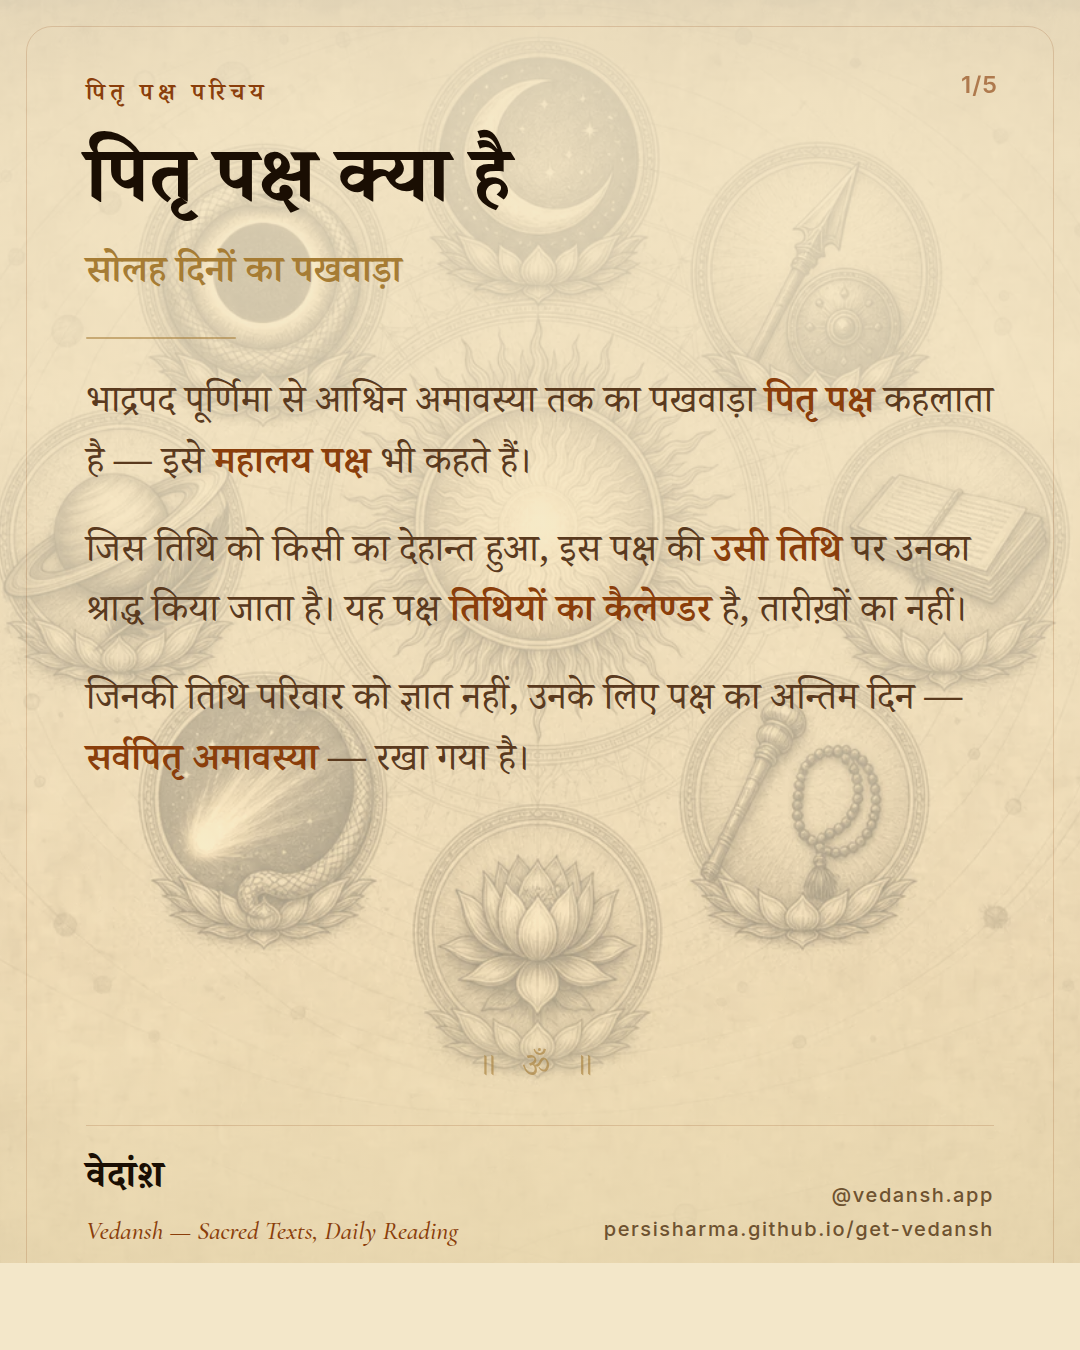
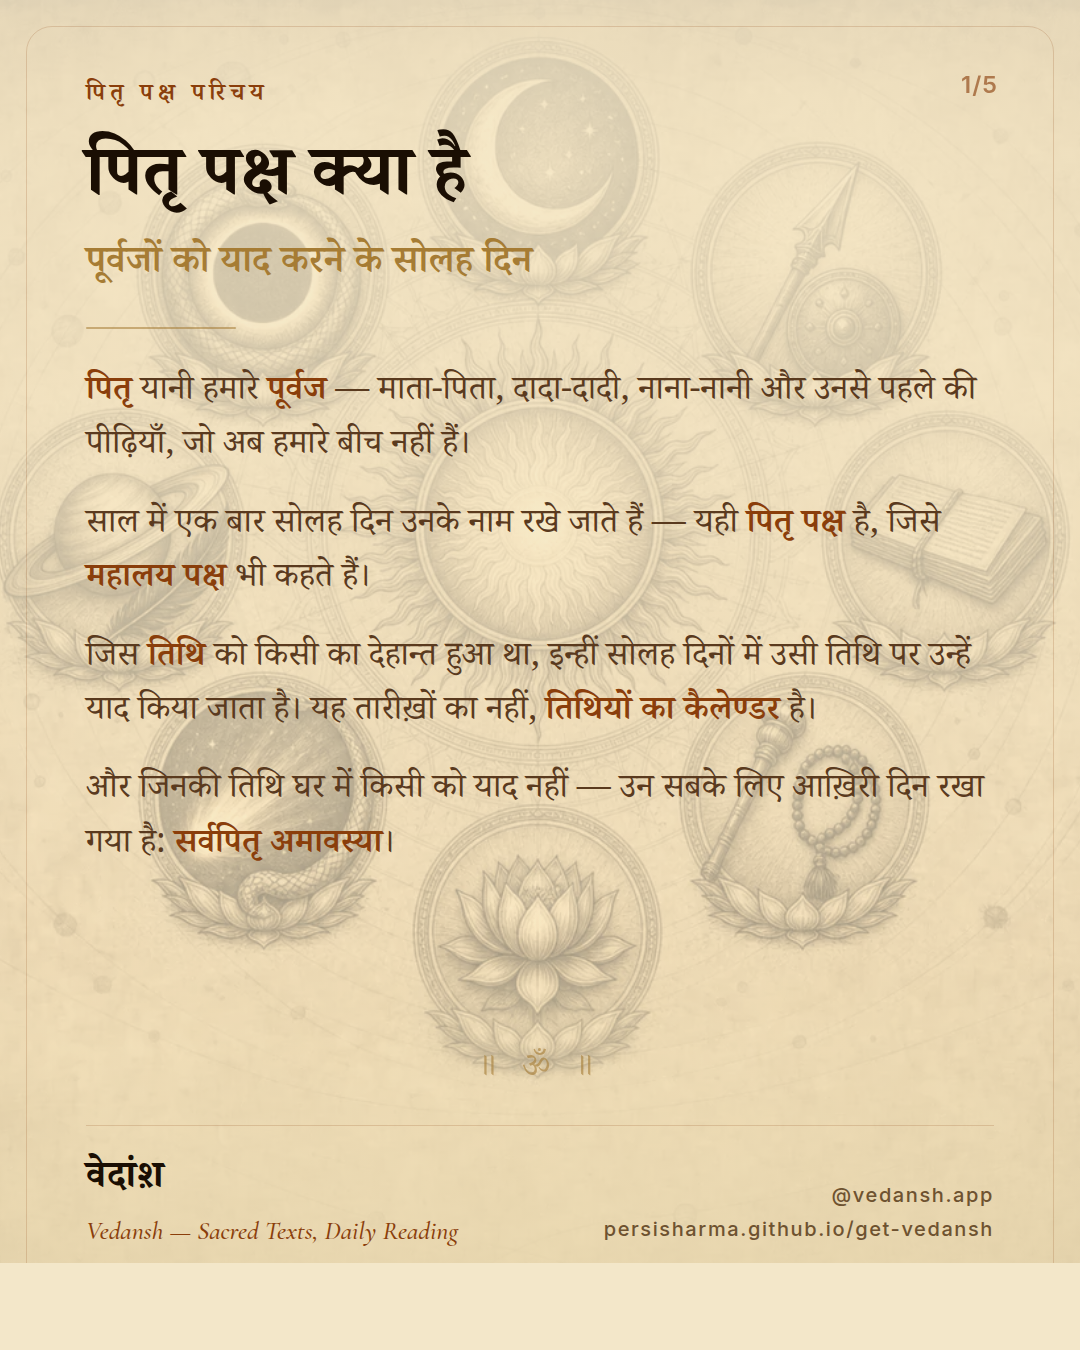
marketing: plainer card 1, add a "why", drop the kutapa-kala card
- Card 1 now opens by defining पितृ as पूर्वज in household terms (माता-पिता,
  दादा-दादी, नाना-नानी) before any calendar vocabulary, and says in plain words
  what the sixteen days are.
- New card 2 answers "why is this fortnight kept" — grounded in the verified
  principles rows gita-1-42 and gita-9-25 rather than in fear copy: these days
  ask for nothing, they remember.
- Card 5 gains the verified kya-arpan-karein prashna (Rama's ingudi pinda in the
  forest — "जो हम खाते हैं, वही आपको अर्पित है"), so the set closes on access
  rather than on procedure.
- Removed the श्राद्ध का काल (samay) card: Kutapa / Rohina / aparahna needs three
  unfamiliar terms before it pays off, which a feed card cannot carry. It stays
  in the app's reading screen. README records the reasoning.
- Renderer: title now steps down for long Devanagari hero lines so it cannot
  crowd the gutters, matching the existing body-size ladder.

Claude-Session: https://claude.ai/code/session_01Tb5sWSoPmY2pQ8zcKxzJFH

Changed region(s): [[0.0611, 0.28, 0.9167, 0.6533], [0.0611, 0.0933, 0.4889, 0.2178], [0.5806, 0.56, 0.9167, 0.5911]]

diff --git a/marketing/instagram/pitru/README.md b/marketing/instagram/pitru/README.md
@@ -8,32 +8,39 @@ Every card condenses a **verified** row of `mobile/src/data/pitru/lessons.ts` (P
 prescribe. No "must", no dosha, no fear copy. Re-run the script after editing a lesson so the
 cards and the app stay in step.
 
-| # | File | Lesson id | Background plate |
-|---|------|-----------|------------------|
+| # | File | Source rows | Background plate |
+|---|------|-------------|------------------|
 | 1 | `pitru-1-kya-hai.png` | `kya-hai` | `deity-navagraha-icons` |
-| 2 | `pitru-2-shraddha-tarpan.png` | `shraddha-aur-tarpan` | `category-aarti-diya` |
-| 3 | `pitru-3-jal-kyon.png` | `jal-kyon` | `deity-ganga` |
-| 4 | `pitru-4-kiske-liye.png` | `kiske-liye` | `deity-rama-darbar` |
-| 5 | `pitru-5-samay.png` | `samay` | `deity-surya` |
+| 2 | `pitru-2-kyon.png` | `kya-hai` + `gita-1-42` / `gita-9-25` (principles) | `source-vishnu-narayana` |
+| 3 | `pitru-3-shraddha-tarpan.png` | `shraddha-aur-tarpan` | `category-aarti-diya` |
+| 4 | `pitru-4-jal-kyon.png` | `jal-kyon` | `deity-ganga` |
+| 5 | `pitru-5-kiske-liye.png` | `kiske-liye` + `kya-arpan-karein` (prashna) | `deity-rama-darbar` |
 
-Post in that order — 1 is the hook, 5 closes on "consult your own panchang", which is the line
+Post in that order. 1 defines the fortnight in the plainest words available (पितृ = पूर्वज, and
+what the sixteen days are); 2 answers "why keep it at all" before any procedure is described; 5
+closes on Rama offering forest roots — "जो हम खाते हैं, वही आपको अर्पित है" — which is the line
 that earns a save rather than a scroll.
+
+**`samay` (श्राद्ध का काल — Kutapa / Rohina / aparahna) is deliberately not a card.** It is
+correct and it is in the app, but it needs three unfamiliar terms before it pays off, and a feed
+card has no room to teach them. It belongs in the reading screen, not the carousel.
 
 ## Caption
 
-> पितृ पक्ष: सोलह दिन, और वे पाँच बातें जो प्रायः पूछी जाती हैं।
+> पितृ पक्ष — यानी क्या, और क्यों।
 >
-> यह पक्ष तारीख़ों का नहीं, तिथियों का कैलेण्डर है। तर्पण श्राद्ध का एक अंग है, पूरा श्राद्ध नहीं।
-> रामायण में पितृ-कर्म बार-बार एक ही रूप में मिलता है — अञ्जलि भर जल। और जटायु के प्रसंग में
-> स्मरण का द्वार किसी वंश-सूची से नहीं, भाव से खुलता है।
+> पितृ यानी हमारे पूर्वज। साल में एक बार सोलह दिन उनके नाम रखे जाते हैं। जिस तिथि को किसी का
+> देहान्त हुआ था, इन्हीं दिनों में उसी तिथि पर उन्हें याद किया जाता है — यह तारीख़ों का नहीं,
+> तिथियों का कैलेण्डर है।
+>
+> इन दिनों कुछ माँगा नहीं जाता; याद किया जाता है। और सामग्री न हो तो भी बात रुकती नहीं — वन में
+> श्रीराम ने इंगुदी के गूदे से पिता के लिए पिण्ड बनाया और कहा: जो हम खाते हैं, वही आपको अर्पित है।
 >
 > पूरा परिचय — सोलहों तिथियाँ, शास्त्र-वचन और कथाएँ — वेदांश़ ऐप में।
 >
-> निश्चित समय के लिए अपने स्थान का पंचांग या पुरोहित देखें।
->
 > Follow @vedansh.app
 >
-> #पितृपक्ष #PitruPaksha #श्राद्ध #Shraddha #तर्पण #Mahalaya #सनातनधर्म #रामायण #Vedansh
+> #पितृपक्ष #PitruPaksha #श्राद्ध #Shraddha #तर्पण #पूर्वज #Mahalaya #सनातनधर्म #रामायण #Vedansh
 
 The blank line before the tags is deliberate — Instagram collapses a caption after ~3 lines, so
 the preview shows the content and not the tag block (same rule as `data/shareHashtags.ts`,
